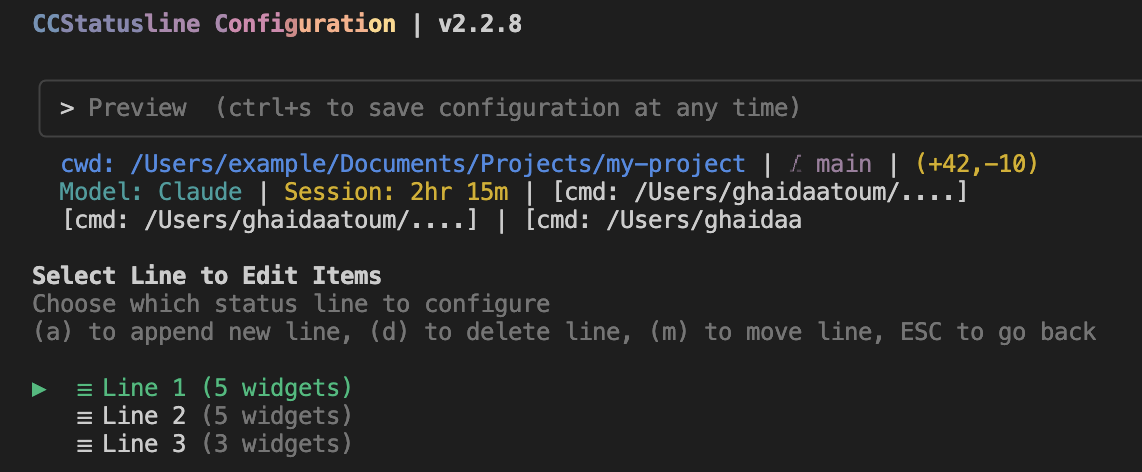
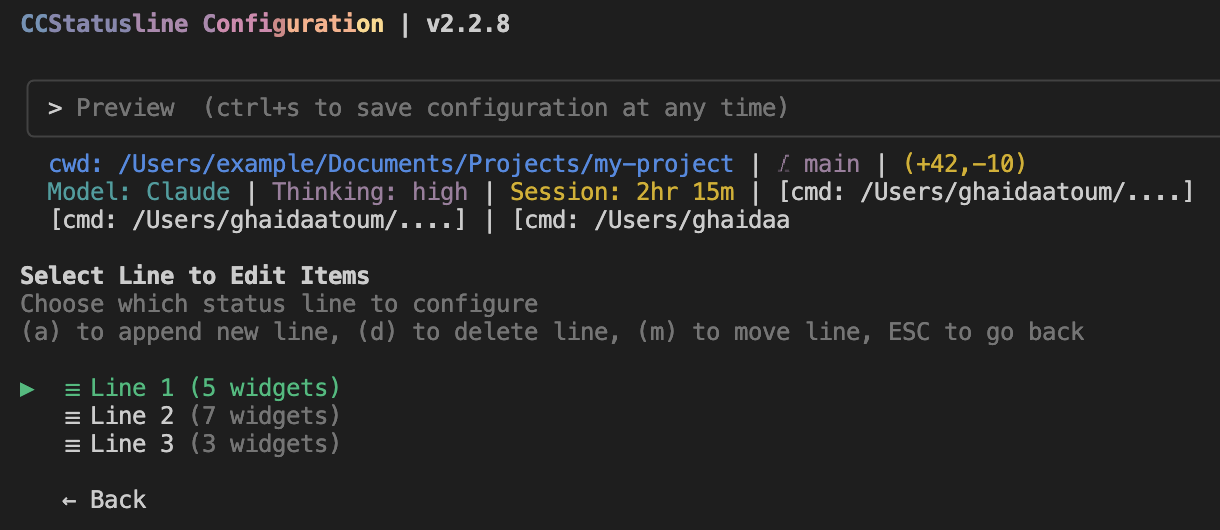
claude-tracker: recommend ThinkingEffort widget in statusline layout
ccstatusline has a built-in ThinkingEffort widget (Core category, v2.3+)
that shows the current thinking level (low/medium/high/max). Worth
surfacing in our recommended layout so users can see effort at a glance
without us shipping a Custom Command for it.

Updated the recommended line 2 ordering everywhere:
  Model · ThinkingEffort · SessionClock · CustomCommand (ctx)

Touched: README example, SETUP-GUIDE (steps 3, 5, 6, 7, 8, 10),
install-ccstatusline.sh layout suggestion, CHANGELOG.

Screenshots: step3 (lines overview) and step5 (line 2 editor) reshot to
show the new layout with 7 widgets on line 2. step6 (line 3 editor)
renamed only — the image shows two generic "Custom Command" entries
with truncated paths, so the content still matches a session segment.

Changed region(s): [[0.0, 0.1483, 1.0, 0.9788], [0.0, 0.0297, 0.4597, 0.089]]

diff --git a/plugins/productivity/claude-tracker/statusline/SETUP-GUIDE.md b/plugins/productivity/claude-tracker/statusline/SETUP-GUIDE.md
@@ -1,6 +1,6 @@
 # Statusline v2 — TUI setup guide
 
-Step-by-step for configuring `ccstatusline` to render the claude-tracker v2 statusline (3 lines, colored context + 5h-block bars, month cost).
+Step-by-step for configuring `ccstatusline` to render the claude-tracker v2 statusline (3 lines: colored context bar, 5h reset countdown, current-session cost).
 
 > 📸 **About the screenshots:** the images below are from `ccstatusline` v2.2.8 on macOS. Your TUI may differ slightly per version, but the flow is the same.
 
@@ -67,8 +67,10 @@ Aim for **3 lines**:
 | Line | Widgets |
 |---|---|
 | **1** | Current Working Directory · Git Branch · Git Changes |
-| **2** | Model · Session Clock · **Custom Command** (ctx bar) |
-| **3** | **Custom Command** (5h block bar) · **Custom Command** (month cost) |
+| **2** | Model · **Thinking Effort** · Session Clock · **Custom Command** (ctx bar) |
+| **3** | **Custom Command** (5h reset countdown + block cost) · **Custom Command** (session cost) |
+
+> 🆕 **Thinking Effort** is a ccstatusline built-in widget (Category: Core) that shows the current thinking level — `low` / `medium` / `high` / `max`. Available in ccstatusline v2.3+.
 
 When you're done, the Lines overview should look like this:
 
@@ -103,15 +105,17 @@ To delete an unwanted default widget: select it, look for a "Remove" option or a
 
 ---
 
-## 5. Add Line 2 — model + session + ctx bar
+## 5. Add Line 2 — model + thinking effort + session + ctx bar
 
 Back out to the Lines list. Pick "Add Line" (or similar). On the new Line 2, add (in order):
 
 1. **Model**
 2. **Separator** (`|`)
-3. **Session Clock** (or "Session Duration")
+3. **Thinking Effort** (Category: Core — `low`/`medium`/`high`/`max`)
 4. **Separator** (`|`)
-5. **Custom Command** ← this one renders our colored Ctx bar
+5. **Session Clock** (or "Session Duration")
+6. **Separator** (`|`)
+7. **Custom Command** ← this one renders our colored Ctx bar
 
 ![Line 2 — Model, Session Clock, Custom Command (ctx)](./screenshots/step5-line2-model-session-ctx.png)
 
@@ -119,15 +123,15 @@ Keep reading for how to configure the Custom Command in step 7.
 
 ---
 
-## 6. Add Line 3 — 5h block + month cost
+## 6. Add Line 3 — 5h reset + session cost
 
 Add another line (Line 3). Add (in order):
 
-1. **Custom Command** ← 5h block bar
+1. **Custom Command** ← 5h reset countdown + block cost
 2. **Separator** (`|`)
-3. **Custom Command** ← month cost
+3. **Custom Command** ← current Claude Code session cost
 
-![Line 3 — two Custom Commands (block, month)](./screenshots/step6-line3-block-month.png)
+![Line 3 — two Custom Commands (block, session)](./screenshots/step6-line3-block-session.png)
 
 ---
 
@@ -140,7 +144,7 @@ For every Custom Command widget you added in steps 5 and 6, open its widget opti
 | `commandPath` | one of the three strings from the install script output |
 | `preserveColors` | **true** (critical — without this, the ANSI colors get stripped) |
 | `timeout` | `1000` (milliseconds; default) |
-| `maxWidth` | optional; `40` for ctx, `60` for block, `20` for month is a good start |
+| `maxWidth` | optional; `40` for ctx, `60` for block, `20` for session is a good start |
 
 **commandPath values** — these look like:
 
@@ -154,9 +158,9 @@ For every Custom Command widget you added in steps 5 and 6, open its widget opti
 <PYTHON> <PLUGIN_DIR>/statusline/render_segments.py --segment block
 ```
 
-**Month segment** (line 3, second):
+**Session segment** (line 3, second):
 ```
-<PYTHON> <PLUGIN_DIR>/statusline/render_segments.py --segment month
+<PYTHON> <PLUGIN_DIR>/statusline/render_segments.py --segment session
 ```
 
 **Don't retype these.** Copy the three fully-resolved strings printed by `install-ccstatusline.sh` — it already figured out your Python interpreter and your plugin install path. They will look like one of:
@@ -176,12 +180,14 @@ The Preview at the top of the TUI should now look something like this (colors in
 
 ```
 ~/plugin-playground  ⎇ main (+2,-1)
-Opus 4.7  ·  Session 12m  ·  Ctx ▓▓▓▓▓░░░░░ 52% (104K/1M)
-5h ▓▓▓░░░░░░░ 2h14m left · $71.98  ·  💰 $769.45 mo
+Opus 4.7  ·  high  ·  Session 12m  ·  Ctx ▓▓▓▓▓░░░░░ 52% (104K/1M)
+5h ▓▓▓▓▓▓▓▓░░ 29m to reset · $16.08  ·  💬 Session $0.42
 ```
 
 - **Ctx bar** should be green if < 70%, yellow 70–89%, red ≥ 90%.
-- **5h bar** fills as your Anthropic 5h block elapses; same color thresholds (red = nearly out of time).
+- **Thinking Effort** shows `low`/`medium`/`high`/`max` — whichever matches your current selection in Claude Code's model picker.
+- **5h bar** fills as the clock-hour-aligned 5h block elapses; same color thresholds (red = nearly out of time). The "X to reset" time approximates what `/usage` shows for the subscription reset.
+- **💬 Session** is cost of the current Claude Code conversation (resets on `/clear` or a new session).
 - **Numbers visible at all** = your `commandPath` and `preserveColors` are configured correctly.
 - If a Custom Command shows dim dashes (`░░░░ ??%`) — that's the cold-cache fallback. Wait ~2 seconds and it populates.
 
@@ -205,9 +211,9 @@ If it doesn't, sanity-check in order:
 2. `~/.config/ccstatusline/settings.json` exists and has 3 lines (`cat ~/.config/ccstatusline/settings.json | head -40`)
 3. Run one of the commandPath strings manually — substitute the `<PYTHON>` and `<PLUGIN_DIR>` the install script printed:
    ```bash
-   echo '{}' | <PYTHON> <PLUGIN_DIR>/statusline/render_segments.py --segment month
+   echo '{}' | <PYTHON> <PLUGIN_DIR>/statusline/render_segments.py --segment block
    ```
-   Should print `💰 $xx.xx mo` (or a dim fallback on a truly cold cache).
+   Should print the `5h … X to reset · $xx.xx` line (or a dim fallback on a truly cold cache).
 
 ---
 
@@ -232,6 +238,6 @@ To recover:
 bash ~/.claude/plugins/cache/<marketplace-name>/claude-tracker/<new-version>/statusline/install-ccstatusline.sh
 ```
 
-Copy the three printed commands, then in the ccstatusline TUI (`npx -y ccstatusline@latest` → Edit Lines → each Custom Command widget → edit cmd) paste the new `commandPath` for each of the ctx / block / month widgets. Save with Ctrl+S and restart Claude Code.
+Copy the three printed commands, then in the ccstatusline TUI (`npx -y ccstatusline@latest` → Edit Lines → each Custom Command widget → edit cmd) paste the new `commandPath` for each of the ctx / block / session widgets. Save with Ctrl+S and restart Claude Code.
 
 Local-clone installs don't have this problem — the path stays put across `git pull`s.

diff --git a/plugins/productivity/claude-tracker/README.md b/plugins/productivity/claude-tracker/README.md
@@ -129,11 +129,12 @@ If you're comparing to an older tracker that ignored cache tokens, expect this n
 
 ```
 ~/plugin-playground  ⎇ main (+2,-1)
-Opus 4.7  ·  Session 12m  ·  Ctx ▓▓▓▓▓░░░░░ 52% (104K/1M)
+Opus 4.7  ·  high  ·  Session 12m  ·  Ctx ▓▓▓▓▓░░░░░ 52% (104K/1M)
 5h ▓▓▓▓▓▓▓▓░░ 29m to reset · $16.08  ·  💬 Session $0.42
 ```
 
 - **Context bar** fills per-model (Opus/Sonnet: 1M, Haiku: 200K, or `CLAUDE_CTX_LIMIT` env override). Green < 70%, yellow 70-89%, red ≥ 90%.
+- **Thinking effort** (`low` / `medium` / `high` / `max`) is rendered by ccstatusline's built-in `ThinkingEffort` widget — no Custom Command needed.
 - **5h bar** tracks the current Anthropic 5h billing block, **clock-hour aligned** so the "X to reset" time approximates the subscription reset shown in `/usage`. Block cost shown next to the countdown.
 - **💬 Session** is cost for your current Claude Code conversation (this `transcript_path`). Resets on `/clear` or a new session.
 - Subscription users see `$X.XX eq` suffix on both cost values — a reminder these are API-equivalent, not your actual bill.

diff --git a/plugins/productivity/claude-tracker/CHANGELOG.md b/plugins/productivity/claude-tracker/CHANGELOG.md
@@ -10,6 +10,7 @@ Format based on [Keep a Changelog](https://keepachangelog.com/en/1.1.0/). Versio
 - `transcript_summary()` helper in `tracker_core.py` — sums cost/usage for a single Claude Code session from its transcript file.
 - New `💬 Session` statusline segment showing current CLI session cost, driven by `transcript_path` from the statusline stdin payload.
 - README "Three 5h windows" terminology table clarifying Claude Code session vs Anthropic 5h pricing block vs subscription rate-limit window.
+- Default layout now recommends ccstatusline's built-in **`ThinkingEffort`** widget on line 2, showing the current thinking level (`low` / `medium` / `high` / `max`). Requires ccstatusline v2.3+.
 
 ### Changed
 - Statusline 5h segment now displays `X to reset` aligned to the clock hour (approximates `/usage` subscription reset) instead of `X left` from the exact first-message timestamp. Entry filtering for the cost calculation still uses the exact block start, so the displayed cost is unchanged.
